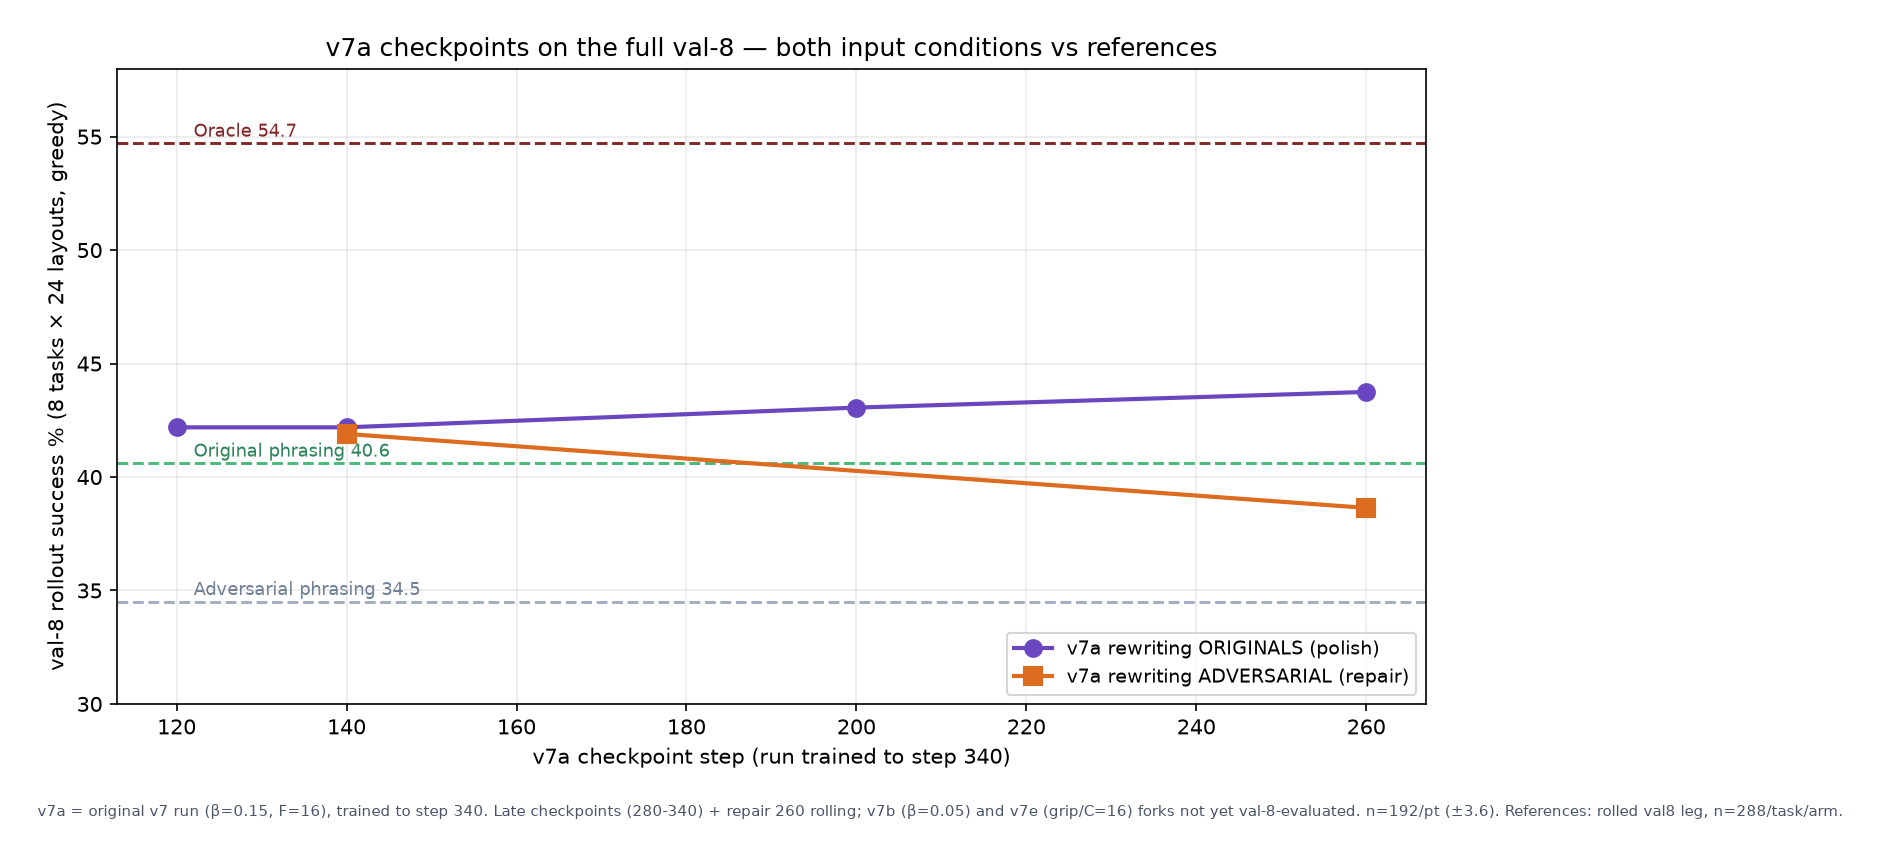
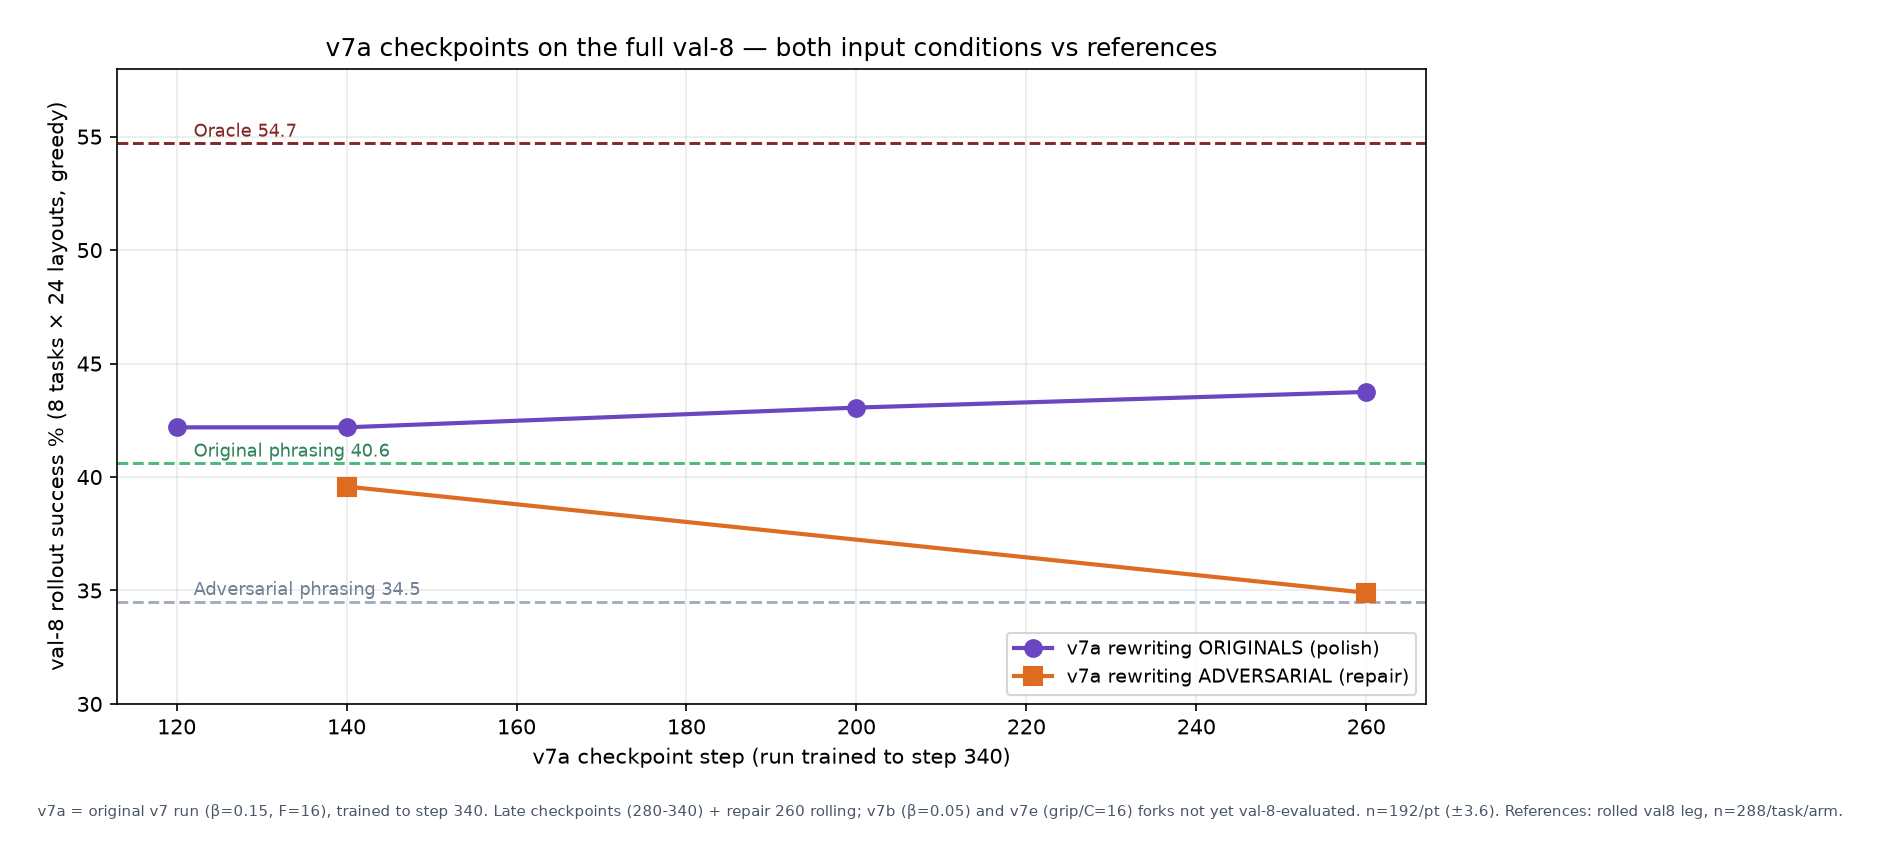
CORRECTION: repair numbers recomputed (phase0c resume-accumulation); repair declines 39.6->34.9 over 140->260

diff --git a/EXPERIMENT.md b/EXPERIMENT.md
@@ -2163,3 +2163,25 @@ clean). Split pipeline: scripts/v7_dev8_gen_only.sh (pod5, has .venv-gen +
 adapters) stages phrase parquets in results/phrase_artifacts/dev8q_* via git;
 scripts/v7_dev8_roll_only.sh (pod7) polls git for them and rolls. Late-polish
 checkpoints 0280-0340 -> pod7; early-repair 0000-0100 -> pod5.
+
+## 2026-07-28 — CORRECTION + finding: repair numbers were contaminated; repair DECLINES with training
+Bug: phase0c_rollout resumes/accumulates on its --out parquet ("resume: N episodes
+already recorded"). The dev8adv runs (pre-cleanup-patch runner) therefore averaged
+stale rows from earlier rolls into their recorded pooled numbers. The tell: n=432/528
+instead of the designed 192. Polish rows are clean (n=192 exact, fresh files).
+Recovery: append order preserves run boundaries -> row-order segmentation, verified
+structurally (each clean slice = exactly 8 phrases x 24 layouts; 260 additionally by
+input-phrase filter; 4 of 260's greedy rewrites were identical to 140's and their
+reused episodes are valid — frozen executor, same phrase+layout).
+Corrected: repair-140 = 39.58 greedy / 41.15 sampled (was 41.9/38.82);
+repair-260 = 34.90 greedy / 36.46 sampled (was 38.64/38.41).
+RETRACTIONS: "repair-140 fully repairs the attack / lands on the polish curve" — at
+140 repair recovers 66% of the polish gap (34.5 -> 39.6 vs polish 42.2); by 260
+repair is GONE (34.9 ~= raw adversarial 34.5) while polish rose to 43.75.
+FINDING (1-sigma-ish per point, but consistent across greedy+sampled and concentrated
+in coke_can_on_plate 45.8->20.8): later v7a training traded repair ability for
+polish. The greedy-ERT proxy (panel 1) stayed flat through this decline — another
+deaf-gradient blind spot. Checkpoint selection must now weigh both conditions;
+the early-repair leg (0-100, tonight) will locate the repair peak.
+Guards landed: out-parquet rm in dev8 runner (SKIP_SAMPLED patch), roll-only script
+patched + pod7 session relaunched before any roll (no pod7 contamination).
